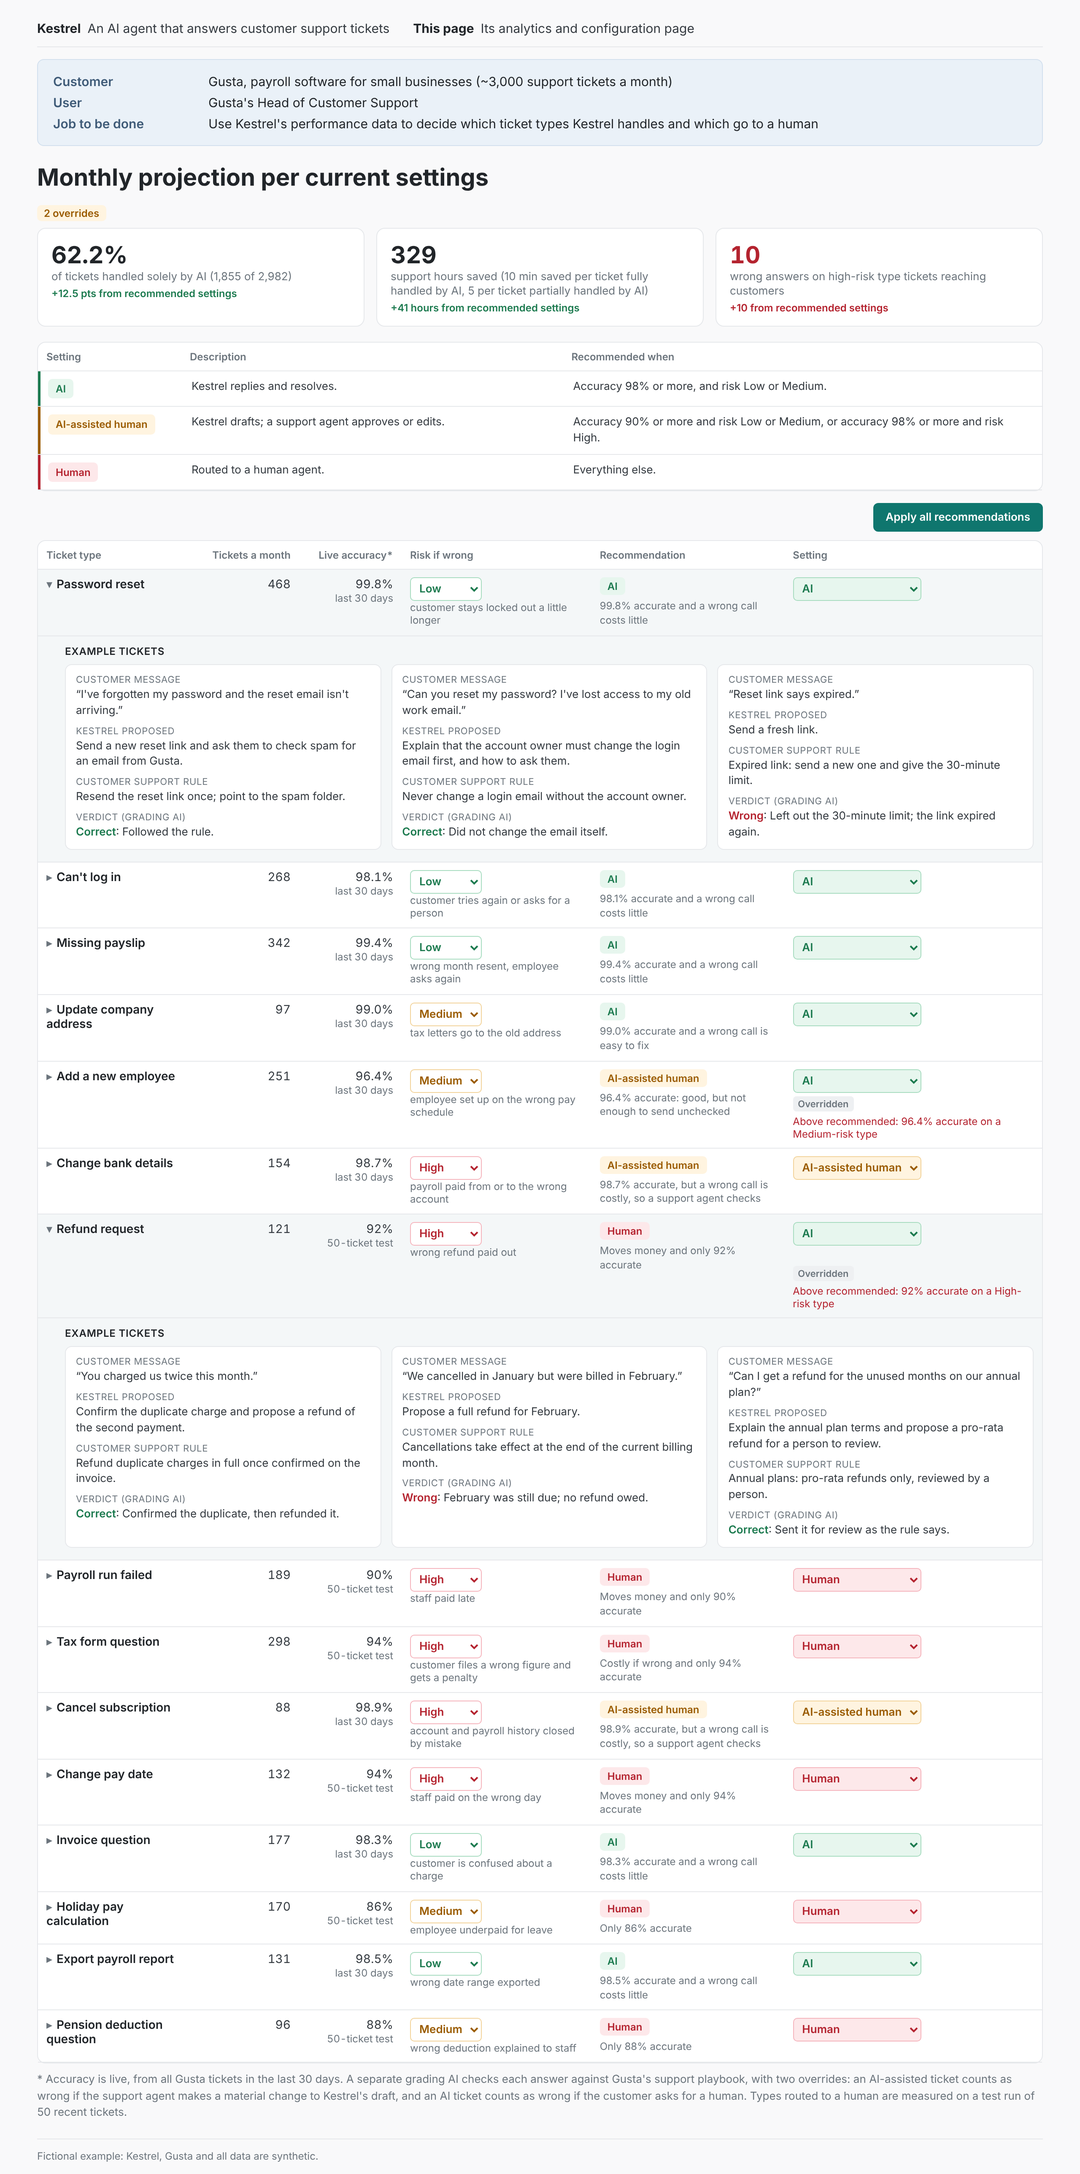
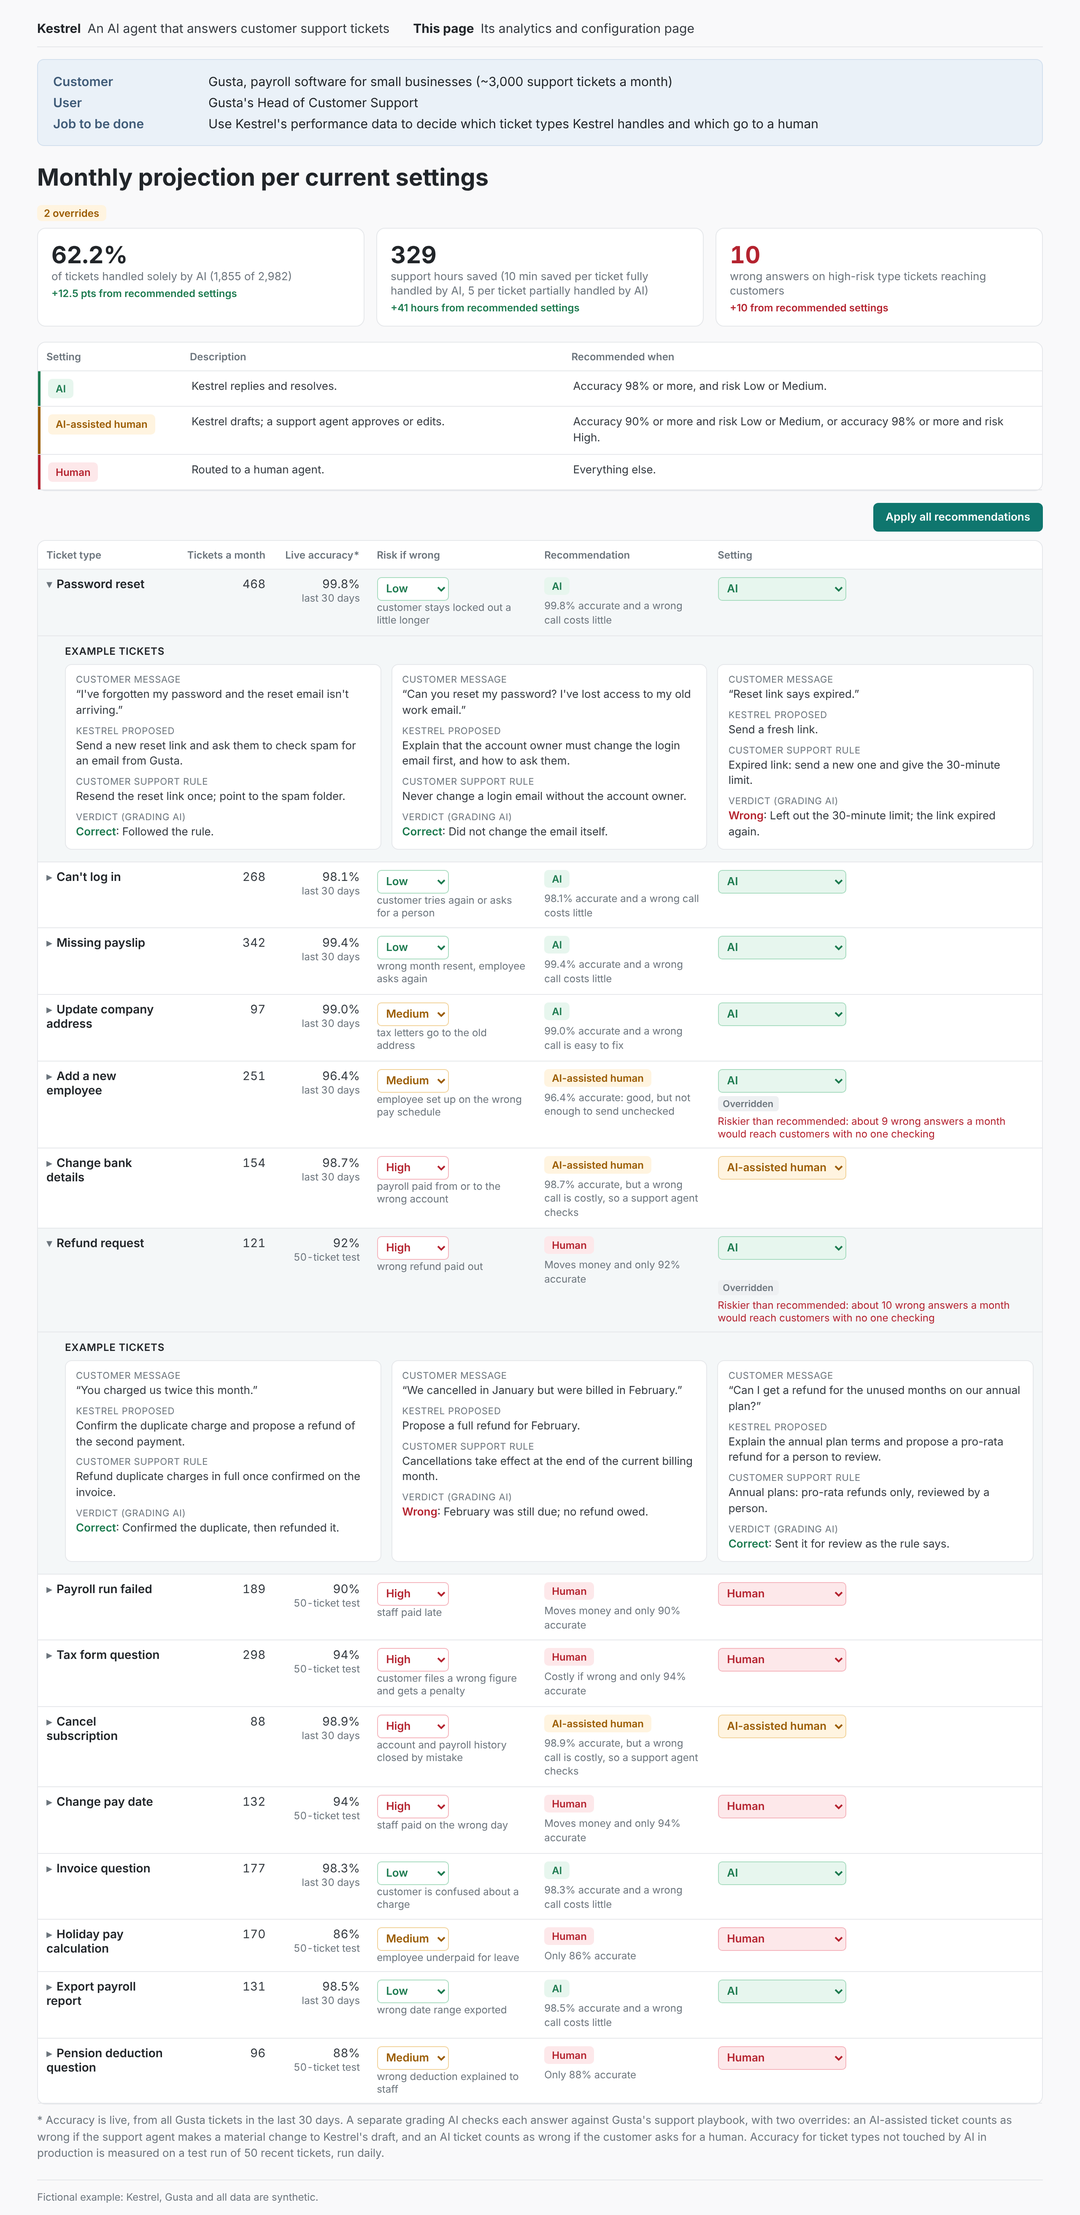
Live accuracy ticks one ticket type every 10 seconds; plainer warnings and footnote
- One live type updates every 10 seconds from load, rows higher in the table more often; each move is one ticket, stays near the 30-day figure and never changes a recommendation
- ?static=1 turns the ticker off for checks and screenshots; checks cover a tick, the weighting and the bounds
- Override warning says what happens to customers (wrong answers a month), not the accuracy and risk band
- Footnote: test-run accuracy explained for types not touched by AI in production
- pm-standard: messages state the consequence in the user's terms

Claude-Session: https://claude.ai/code/session_016JoguXTxkWcj5knaYbAtMZ

diff --git a/examples/kestrel/build/mvp.html b/examples/kestrel/build/mvp.html
@@ -103,14 +103,17 @@ function summary(d, settings){
   return {all, ai, assisted, aiShare: ai / all, hours: (ai * d.minutes_ai + assisted * d.minutes_assisted) / 60, wrong, wrongHigh};
 }
 function aboveRecommended(t, n, mode){ return RANK[mode] > RANK[recommend(t, n)]; }
-if (typeof module !== 'undefined') module.exports = {accuracy, recommend, summary, aboveRecommended, RANK};
+function wrongPerMonth(t){ return Math.round(t.tickets * (1 - accuracy(t))); }
+// live accuracy ticker: only types measured on live tickets can move; the higher a row sits in the table, the more often it is picked
+function tickerWeights(types){ return types.map((t, i) => t.tested === t.tickets ? 1 / (i + 1) : 0); }
+if (typeof module !== 'undefined') module.exports = {accuracy, recommend, summary, aboveRecommended, wrongPerMonth, tickerWeights, RANK};
 </script>
 
 <script>
 const LABEL = {resolve: 'AI', draft: 'AI-assisted human', human: 'Human'};
 let D, settings = [], risks = [], open = new Set([0]);
-let live = false, accFlash = {};
-const eff = () => D.types.map((t, i) => Object.assign({}, t, {risk: risks[i]}, live ? {} : {correct: t.prev_correct}));
+let liveCorrect = [], accFlash = {};
+const eff = () => D.types.map((t, i) => Object.assign({}, t, {risk: risks[i], correct: liveCorrect[i]}));
 const fmt = v => Math.round(v).toLocaleString('en-GB');
 function staticParts(){
   const K = D.product, G = D.customer, n = 0;
@@ -126,7 +129,7 @@ function staticParts(){
     <tr class="r-resolve"><td><span class="chip c-resolve">AI</span></td><td>${K} replies and resolves.</td><td>Accuracy 98% or more, and risk Low or Medium.</td></tr>
     <tr class="r-draft"><td><span class="chip c-draft">AI-assisted human</span></td><td>${K} drafts; a support agent approves or edits.</td><td>Accuracy 90% or more and risk Low or Medium, or accuracy 98% or more and risk High.</td></tr>
     <tr class="r-human"><td><span class="chip c-human">Human</span></td><td>Routed to a human agent.</td><td>Everything else.</td></tr></table>`;
-  document.getElementById('measure').textContent = `* Accuracy is live, from all ${G} tickets in the last 30 days. A separate grading AI checks each answer against ${G}'s support playbook, with two overrides: an AI-assisted ticket counts as wrong if the support agent makes a material change to ${K}'s draft, and an AI ticket counts as wrong if the customer asks for a human. Types routed to a human are measured on a test run of 50 recent tickets.`;
+  document.getElementById('measure').textContent = `* Accuracy is live, from all ${G} tickets in the last 30 days. A separate grading AI checks each answer against ${G}'s support playbook, with two overrides: an AI-assisted ticket counts as wrong if the support agent makes a material change to ${K}'s draft, and an AI ticket counts as wrong if the customer asks for a human. Accuracy for ticket types not touched by AI in production is measured on a test run of 50 recent tickets, run daily.`;
   document.getElementById('footer').textContent = `Fictional example: ${K}, ${G} and all data are synthetic.`;
 }
 function render(){
@@ -143,7 +146,9 @@ function render(){
   const rows = E.map((t, i) => {
     const rec = recommend(t, n), set = settings[i], isOpen = open.has(i), p = (accuracy(t, n) * 100).toFixed(t.tested === 50 ? 0 : 1), adj = t.risk !== D.types[i].risk;
     const over = set !== rec ? `<div><span class="tag">Overridden</span></div>` : '';
-    const warn = aboveRecommended(t, n, set) ? `<div class="warn">Above recommended: ${p}% accurate on a ${t.risk}-risk type</div>` : '';
+    const w = wrongPerMonth(t), warn = !aboveRecommended(t, n, set) ? '' : set === 'resolve'
+      ? `<div class="warn">Riskier than recommended: about ${w} wrong ${w === 1 ? 'answer' : 'answers'} a month would reach customers with no one checking</div>`
+      : `<div class="warn">Riskier than recommended: support agents would need to catch about ${w} wrong ${w === 1 ? 'draft' : 'drafts'} a month</div>`;
     const main = `<tr class="row${isOpen ? ' open' : ''}" data-i="${i}" onclick="toggle(${i})">
       <td><span class="chev">${isOpen ? '▾' : '▸'}</span><span class="name">${t.name}</span></td>
       <td class="n">${fmt(t.tickets)}</td>
@@ -185,15 +190,26 @@ function setRisk(i, v){ const n = 0, before = recommend(eff()[i], n); risks[i] =
   const after = recommend(eff()[i], n); if (settings[i] === before) settings[i] = after; render();
   toast(`Saved. ${after !== before ? 'Now recommended: ' + LABEL[after] + '.' : 'Recommendation unchanged.'}`, `select[data-risk="${i}"]`); }
 function applyAll(silent){ settings = eff().map(t => recommend(t, 0)); render(); if (!silent) toast('All recommendations applied. Projection updated.', '#applyAll'); }
-fetch('../data/ticket_types.json').then(r => r.json()).then(d => { D = d; risks = D.types.map(t => t.risk); staticParts();
+// one live type's accuracy moves by one ticket; stays within 2 tickets of the 30-day figure and never changes a recommendation
+function tick(){
+  const busy = document.getElementById('toast') || (document.activeElement && document.activeElement.tagName === 'SELECT');
+  if (busy) return false;  // don't redraw under someone mid-change
+  const wts = tickerWeights(D.types), tot = wts.reduce((a, b) => a + b, 0);
+  let r = Math.random() * tot, i = 0; while (r >= wts[i] || !wts[i]) { r -= wts[i]; i++; }
+  const t = D.types[i], ok = c => c >= t.correct - 2 && c <= Math.min(t.tested, t.correct + 2) &&
+    recommend(Object.assign({}, t, {risk: risks[i], correct: c}), 0) === recommend(eff()[i], 0);
+  const step = Math.random() < 0.5 ? 1 : -1, c = [liveCorrect[i] + step, liveCorrect[i] - step].find(ok);
+  if (c === undefined) return false;
+  accFlash = {[i]: (c - liveCorrect[i]) / t.tested * 100}; liveCorrect[i] = c; render();
+  setTimeout(() => { accFlash = {}; document.querySelectorAll('td.acc-up, td.acc-down').forEach(td => { td.classList.remove('acc-up', 'acc-down'); td.querySelectorAll('.accd').forEach(x => x.remove()); }); }, 2200);
+  return true; }
+window.tick = tick;
+fetch('../data/ticket_types.json').then(r => r.json()).then(d => { D = d; risks = D.types.map(t => t.risk); liveCorrect = D.types.map(t => t.correct); staticParts();
   // saved settings: one override (Add a new employee moved up to AI)
   settings = eff().map(t => recommend(t, 0)); settings[D.types.findIndex(t => t.name === 'Add a new employee')] = 'resolve'; render();
-  // live accuracy refresh: yesterday's figures move to today's, each changed cell flashes green or red
-  setTimeout(() => { live = true; accFlash = {};
-    D.types.forEach((t, i) => { const d = (t.correct - t.prev_correct) / t.tested * 100; if (Math.abs(d) >= 0.05) accFlash[i] = d; });
-    render(); const n = Object.keys(accFlash).length;
-    toast(`Updated today: ${n} changed`, '#thAccLabel'); document.body.dataset.ready = '1';
-    setTimeout(() => { accFlash = {}; render(); }, 2200); }, 700); })
+  document.body.dataset.ready = '1';
+  // live accuracy: every 10 seconds from load, one ticket type updates (off with ?static=1, for checks and screenshots)
+  if (!new URLSearchParams(location.search).has('static')) setInterval(tick, 10000); })
   .catch(() => { document.querySelector('main').insertAdjacentHTML('afterbegin', '<p class="measure"><b>Couldn\'t load the data.</b> Open this page through a web server, not by double-clicking the file.</p>'); });
 </script>
 </body></html>

diff --git a/examples/kestrel/build/check_mvp.js b/examples/kestrel/build/check_mvp.js
@@ -8,14 +8,20 @@ const srv = http.createServer((q, r) => { const f = path.join(root, decodeURICom
   const errs = []; p.on('pageerror', e => errs.push(e.message)); p.on('console', m => m.type() === 'error' && errs.push(m.text()));
   const t = (label, ok) => { console.log((ok ? 'PASS ' : 'FAIL ') + label); if (!ok) errs.push(label); };
   const txt = s => p.textContent(s);
-  await p.goto(`http://localhost:${srv.address().port}/build/mvp.html`); await p.waitForSelector('body[data-ready="1"]');
+  await p.goto(`http://localhost:${srv.address().port}/build/mvp.html?static=1`); await p.waitForSelector('body[data-ready="1"]');
   t('no top bar', !(await p.$('#topbar')));
   const it = await txt('#intro'), hd = await txt('#header'); t('Kestrel and This page at the top, outside the box', it.includes('An AI agent that answers customer support tickets') && it.indexOf('An AI agent') < it.indexOf('Its analytics and configuration page') && !hd.includes('Its analytics') && hd.includes('Customer'));
-  t('accuracy footnote below the table explains the overrides', (await txt('#measure')).startsWith('* Accuracy is live') && (await txt('#measure')).includes('makes a material change') && (await p.evaluate(() => !!(document.querySelector('#types').compareDocumentPosition(document.querySelector('#measure')) & Node.DOCUMENT_POSITION_FOLLOWING))) && (await txt('#measure')).includes('asks for a human'));
+  t('accuracy footnote below the table explains the overrides', (await txt('#measure')).startsWith('* Accuracy is live') && (await txt('#measure')).includes('makes a material change') && (await p.evaluate(() => !!(document.querySelector('#types').compareDocumentPosition(document.querySelector('#measure')) & Node.DOCUMENT_POSITION_FOLLOWING))) && (await txt('#measure')).includes('asks for a human') && (await txt('#measure')).includes('not touched by AI in production is measured on a test run of 50 recent tickets, run daily'));
   t('headline', (await txt('#headline')) === 'Monthly projection per current settings');
-  t('default: 1 override (Add a new employee set to AI, above recommended)', (await txt('#state')) === '1 override' && (await p.inputValue('select[data-i="4"]')) === 'resolve' && (await txt('tr.row[data-i="4"]')).includes('Above recommended'));
+  t('default: 1 override (Add a new employee set to AI, above recommended)', (await txt('#state')) === '1 override' && (await p.inputValue('select[data-i="4"]')) === 'resolve' && (await txt('tr.row[data-i="4"]')).includes('Riskier than recommended: about 9 wrong answers a month would reach customers with no one checking'));
   t('default projection: 58.1%, 309 hours, 0', (await txt('#sumShare')) === '58.1%' && (await txt('#sumHours')) === '309' && (await txt('#sumHigh')) === '0');
-  t('live accuracy refresh: green and red cells with the change', (await p.$$('td.acc-up')).length === 4 && (await p.$$('td.acc-down')).length === 2 && (await txt('tr.row[data-i="0"] td.acc')).includes('▲ +0.2') && (await txt('#toast')).includes('Updated today: 6 changed'));
+  t('static mode: no accuracy change on load', (await p.$$('td.acc-up, td.acc-down')).length === 0);
+  const chips = () => p.$$eval('tr.row td:nth-child(5) .chip', es => es.map(e => e.textContent).join('|')), chips0 = await chips();
+  t('one tick: exactly one accuracy cell changes, with its arrow', (await p.evaluate(() => tick())) && (await p.$$('td.acc-up, td.acc-down')).length === 1 && /[▲▼] [+−]\d/.test(await txt('td.acc-up, td.acc-down')));
+  const picks = await p.evaluate(() => { const c = {}; for (let k = 0; k < 400; k++) { const before = liveCorrect.slice(); if (tick()) { const i = liveCorrect.findIndex((v, j) => v !== before[j]); c[i] = (c[i] || 0) + 1; } } return c; });
+  t('ticks favour rows higher in the table, and only live types move', (picks[0] || 0) > (picks[11] || 0) && (picks[0] || 0) > (picks[13] || 0) && [6, 7, 8, 10, 12, 14].every(i => !picks[i]));
+  t('ticks stay within 2 tickets of the 30-day figure and never change a recommendation', (await chips()) === chips0 && (await p.evaluate(() => liveCorrect.every((c, i) => Math.abs(c - D.types[i].correct) <= 2 && c <= D.types[i].tested))));
+  await p.evaluate(() => { liveCorrect = D.types.map(t => t.correct); render(); });
   t('no load flash on the hours card', !(await p.getAttribute('#sumHours >> xpath=..', 'class')).includes('flash'));
   t('label says solely by AI', (await txt('#summary')).includes('of tickets handled solely by AI'));
   await p.click('#applyAll');
@@ -35,12 +41,12 @@ const srv = http.createServer((q, r) => { const f = path.join(root, decodeURICom
   t('confirmation sits right under the changed control, inside its cell', Math.abs(tb.top - sb.bottom) < 12 && Math.abs(tb.left - sb.left) < 4);
   const row = await txt('tr.row[data-i="6"]');
   t('raising AI share flashes green, high-risk wrong answers flash red', (await p.getAttribute('#sumShare >> xpath=..', 'class')).includes('flash-good') && (await p.getAttribute('#sumHigh >> xpath=..', 'class')).includes('flash-bad'));
-  t('override shows Overridden and the warning', row.includes('Overridden') && row.includes('Above recommended: 92% accurate on a High-risk type'));
+  t('override shows Overridden and the warning', row.includes('Overridden') && row.includes('Riskier than recommended: about 10 wrong answers a month would reach customers with no one checking'));
   t('summary updates: 53.8%, 10 high-risk wrong answers', (await txt('#sumShare')) === '53.8%' && (await txt('#sumHigh')) === '10');
   t('dashboard updates: 1 override, 10 on High-risk types, deltas shown', (await txt('#state')) === '1 override' && (await txt('#sumHigh')) === '10' && (await txt('#summary')).includes('+10 from recommended settings'));
   await p.selectOption('select[data-i="0"]', 'human');
   const row0 = await txt('tr.row[data-i="0"]');
-  t('lowering autonomy: Overridden, no warning', row0.includes('Overridden') && !row0.includes('Above recommended'));
+  t('lowering autonomy: Overridden, no warning', row0.includes('Overridden') && !row0.includes('Riskier than recommended'));
   await p.click('#applyAll');
   // risk: Password reset Low -> High moves it to AI-assisted human; the setting follows because it was on the recommendation
   await p.selectOption('select[data-risk="0"]', 'High');

diff --git a/examples/kestrel/build/capture_screens.js b/examples/kestrel/build/capture_screens.js
@@ -6,7 +6,7 @@ const srv = http.createServer((q, r) => { const f = path.join(root, decodeURICom
 (async () => {
   await new Promise(ok => srv.listen(0, ok)); const b = await chromium.launch();
   const p = await b.newPage({ viewport: { width: 1280, height: 900 }, deviceScaleFactor: scale });
-  await p.goto(`http://localhost:${srv.address().port}/build/mvp.html`); await p.waitForSelector('body[data-ready="1"]'); await p.waitForTimeout(2800);
+  await p.goto(`http://localhost:${srv.address().port}/build/mvp.html?static=1`); await p.waitForSelector('body[data-ready="1"]');
   await p.screenshot({ path: path.join(root, 'design', '1-overview.png'), fullPage: true });
   await p.click('tr.row:has-text("Refund request") .name'); await p.selectOption('select[data-i="6"]', 'resolve'); await p.waitForTimeout(2800);
   await p.screenshot({ path: path.join(root, 'design', '2-override.png'), fullPage: true });

diff --git a/examples/kestrel/notebooks/make_data.py b/examples/kestrel/notebooks/make_data.py
@@ -89,7 +89,6 @@ LIVE = {
  'Pension deduction question': (50, 44),
 }
 # yesterday's correct count for the live types, so the page can show today's refresh (no threshold is crossed)
-PREV = {"Password reset": 466, "Can't log in": 264, "Missing payslip": 339, "Add a new employee": 241, "Change bank details": 151, "Export payroll report": 130}
 REASON = {
  "Password reset": "{p} accurate and a wrong call costs little",
  "Can't log in": "{p} accurate and a wrong call costs little",
@@ -110,7 +109,7 @@ REASON = {
 pct = lambda n: (f"{LIVE[n][1] / LIVE[n][0] * 100:.0f}%" if LIVE[n][0] == 50 else f"{LIVE[n][1] / LIVE[n][0] * 100:.1f}%")
 out = {"label": "FICTIONAL and SYNTHETIC: Kestrel example, not real data",
        "product": "Kestrel", "customer": "Gusta", "channel": "In-app chat", "minutes_ai": 10, "minutes_assisted": 5,
-       "types": [{"name": n, "tickets": v, "tested": LIVE[n][0], "correct": LIVE[n][1], "prev_correct": PREV.get(n, LIVE[n][1]), "risk": c, "risk_example": ce, "reason": REASON[n].format(p=pct(n)),
+       "types": [{"name": n, "tickets": v, "tested": LIVE[n][0], "correct": LIVE[n][1], "risk": c, "risk_example": ce, "reason": REASON[n].format(p=pct(n)),
                   "examples": [{"message": a, "proposed": b, "rule": rl, "correct": ok, "verdict_reason": rs} for a, b, rl, ok, rs in ex]}
                  for n, v, k, c, ce, mm, ex in T]}
 json.dump(out, open("data/ticket_types.json", "w"), indent=1)

diff --git a/README.md b/README.md
@@ -19,7 +19,7 @@ Kestrel's analytics and configuration page, for Gusta's Head of Customer Support
 |---|---|
 | Monthly projection per current settings | **58.1%** of tickets handled solely by AI (1,734 of 2,982) · **309** support hours saved (10 minutes per ticket fully handled by AI, 5 per ticket partially handled by AI) · **0** wrong answers on high-risk type tickets reaching customers. Recalculates as settings change; each change flashes green or red and shows the difference from the recommended settings |
 | Settings | **AI**: Kestrel replies and resolves (recommended at 98%+ accuracy and risk Low or Medium) · **AI-assisted human**: Kestrel drafts, a support agent approves or edits (90%+ and risk Low or Medium, or 98%+ and risk High) · **Human**: routed to a human agent (everything else) |
-| The table | 15 ticket types: tickets a month, live accuracy (refreshed on load, each change shown in green or red), risk if wrong, Kestrel's recommendation with its reason, and the setting Gusta controls |
+| The table | 15 ticket types: tickets a month, live accuracy (every 10 seconds one ticket type updates, rows higher in the table more often, shown in green or red), risk if wrong, Kestrel's recommendation with its reason, and the setting Gusta controls |
 | Adjustments | Risk and setting are both editable. Changing a risk shows "Adjusted by user" and re-runs the recommendation; changing a setting shows "Overridden" and warns when it gives Kestrel more autonomy than recommended. A confirmation appears after each change. The page opens with one override (Add a new employee moved up to AI); "Apply all recommendations" resets it |
 | Example tickets | 3 under each ticket type: customer message, what Kestrel proposed, the customer support rule, and the grading AI's verdict |
 

diff --git a/.claude/commands/pm-standard.md b/.claude/commands/pm-standard.md
@@ -26,6 +26,7 @@ For anything the customer or a reader sees: questions, screens, documents, findi
 - **Don't over-generalise either.** Use the precise word when there is one: "the number" when it is a number, "the output" only when it isn't.
 - **Explain briefly.** Terms, units and assumptions get a few words the first time they appear (see `product-glossary`), including terms the customer knows well. Keep it brief, never a lecture.
 - **Read it as them.** Before showing it: would someone who hasn't seen our notes understand every noun on first reading?
+- **Say what it means for them.** Warnings, confirmations and notes state the consequence in the user's terms (what happens to their customers, their team, their time or money, with a number), not the system's internal measure or rule. Write every message as if you were the user reading it at that moment.
 - **Answer first (pyramid).** Lead with the answer or recommendation, then the two or three reasons, then the detail. Each section opens with its point in one line.
 - **Concise, specific, reasoned.** As few words as possible, every one specific, but keep the "because".
 
